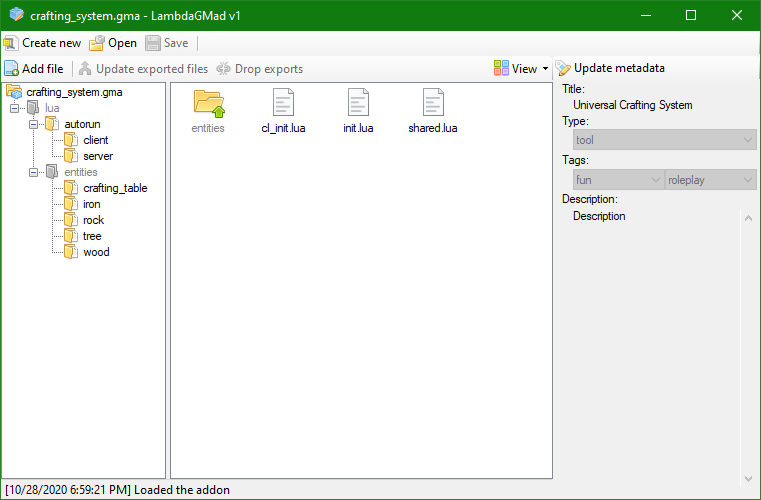
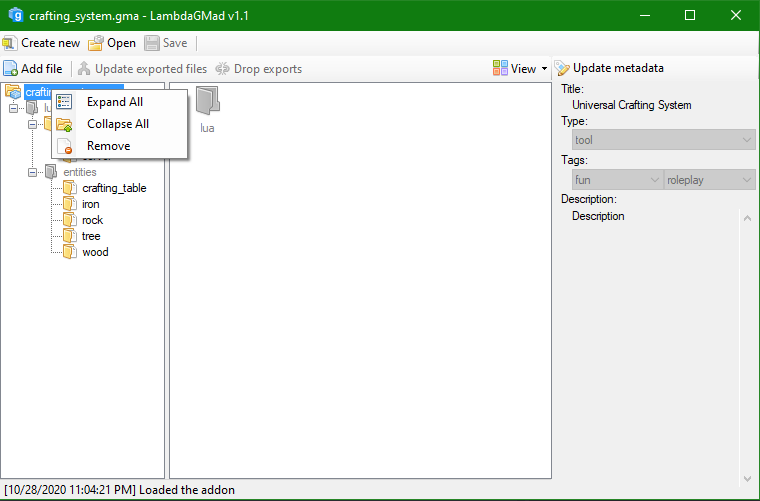
Added context menu to tree view
Also updated whitelist and logo

diff --git a/LambdaGMad/Main.cs b/LambdaGMad/Main.cs
@@ -4,6 +4,7 @@ using System.Drawing;
 using System.IO;
 using System.Linq;
 using System.Windows.Forms;
+using System.ComponentModel;
 
 namespace LambdaGMad
 {
@@ -13,6 +14,9 @@ namespace LambdaGMad
 		/// The currently open addon.
 		/// </summary>
 		RealtimeAddon AddonHandle;
+		ContextMenuStrip cmsFileEntryList;
+		ToolStripMenuItem ExpandAll;
+		ToolStripMenuItem CollapseAll;
 
 		private Main()
 		{
@@ -36,6 +40,40 @@ namespace LambdaGMad
 			tsmiViewShowFolderTree_Click( tsmiViewShowFolderTree, new EventArgs() ); // Same as above.
 
 			tsbCreateAddon.Enabled = !Whitelist.Override;
+
+			// Right click event handler
+			tvFolders.NodeMouseClick += ( sender, args ) => {
+				if ( args.Button == MouseButtons.Right )
+				{
+					tvFolders.SelectedNode = args.Node;
+					tvFolders_RightClick( sender, args );
+				}
+			};
+
+			// Extra context menu since I can't figure out how to add it through the designer
+			ExpandAll = new ToolStripMenuItem();
+			ExpandAll.Image = Properties.Resources.view_details;
+			ExpandAll.Name = "ExpandAll";
+			ExpandAll.Size = new Size( 143, 22 );
+			ExpandAll.Text = "Expand All";
+			ExpandAll.Click += new EventHandler( ExpandAll_Click );
+
+			CollapseAll = new ToolStripMenuItem();
+			CollapseAll.Image = Properties.Resources.parentfolder_s;
+			CollapseAll.Name = "CollapseAll";
+			CollapseAll.Size = new Size( 143, 22 );
+			CollapseAll.Text = "Collapse All";
+			CollapseAll.Click += new EventHandler( CollapseAll_Click );
+
+			cmsFileEntryList = new ContextMenuStrip( new Container() );
+			cmsFileEntryList.SuspendLayout();
+			cmsFileEntryList.Items.AddRange( new ToolStripItem[] {
+				ExpandAll,
+				CollapseAll,
+				tsmFileRemove
+			} );
+			cmsFileEntryList.Size = new Size( 144, 164 );
+			cmsFileEntryList.ResumeLayout( false );
 		}
 
 		public Main( string[] args, bool whitelistOverride = false )
@@ -437,6 +475,11 @@ namespace LambdaGMad
 		{
 			// When a node is selected, we have to update the file list (lstFiles) to display only the files in the selected node.
 			UpdateFileList();
+		}
+
+		private void tvFolders_RightClick( object sender, TreeNodeMouseClickEventArgs e )
+		{
+			cmsFileEntryList.Show( Cursor.Position );
 		}
 
 		/// <summary>The types of what a file entry (in the lstFiles list) can be</summary>
@@ -1277,6 +1320,16 @@ namespace LambdaGMad
 					UpdateFileList();
 				}
 			}
+		}
+
+		private void ExpandAll_Click( object sender, EventArgs e )
+		{
+			tvFolders.ExpandAll();
+		}
+
+		private void CollapseAll_Click( object sender, EventArgs e )
+		{
+			tvFolders.CollapseAll();
 		}
 
 		private void tsbUpdateMetadata_Click( object sender, EventArgs e )

diff --git a/LambdaGMad/Properties/AssemblyInfo.cs b/LambdaGMad/Properties/AssemblyInfo.cs
@@ -32,5 +32,5 @@ using System.Runtime.InteropServices;
 // You can specify all the values or you can default the Build and Revision Numbers 
 // by using the '*' as shown below:
 // [assembly: AssemblyVersion("1.0.*")]
-[assembly: AssemblyVersion( "1.0" )]
-[assembly: AssemblyFileVersion( "1.0" )]
+[assembly: AssemblyVersion( "1.1" )]
+[assembly: AssemblyFileVersion( "1.1" )]

diff --git a/LambdaGMad/Whitelist.cs b/LambdaGMad/Whitelist.cs
@@ -37,7 +37,8 @@ namespace LambdaGMad
 			"maps/*.bsp",
 			"maps/*.nav",
 			"maps/*.ain",
-			"maps/thumb/*.png",
+			"maps/*.png",
+			"maps/*.lmp",
 			"sound/*.wav",
 			"sound/*.mp3",
 			"sound/*.ogg",
